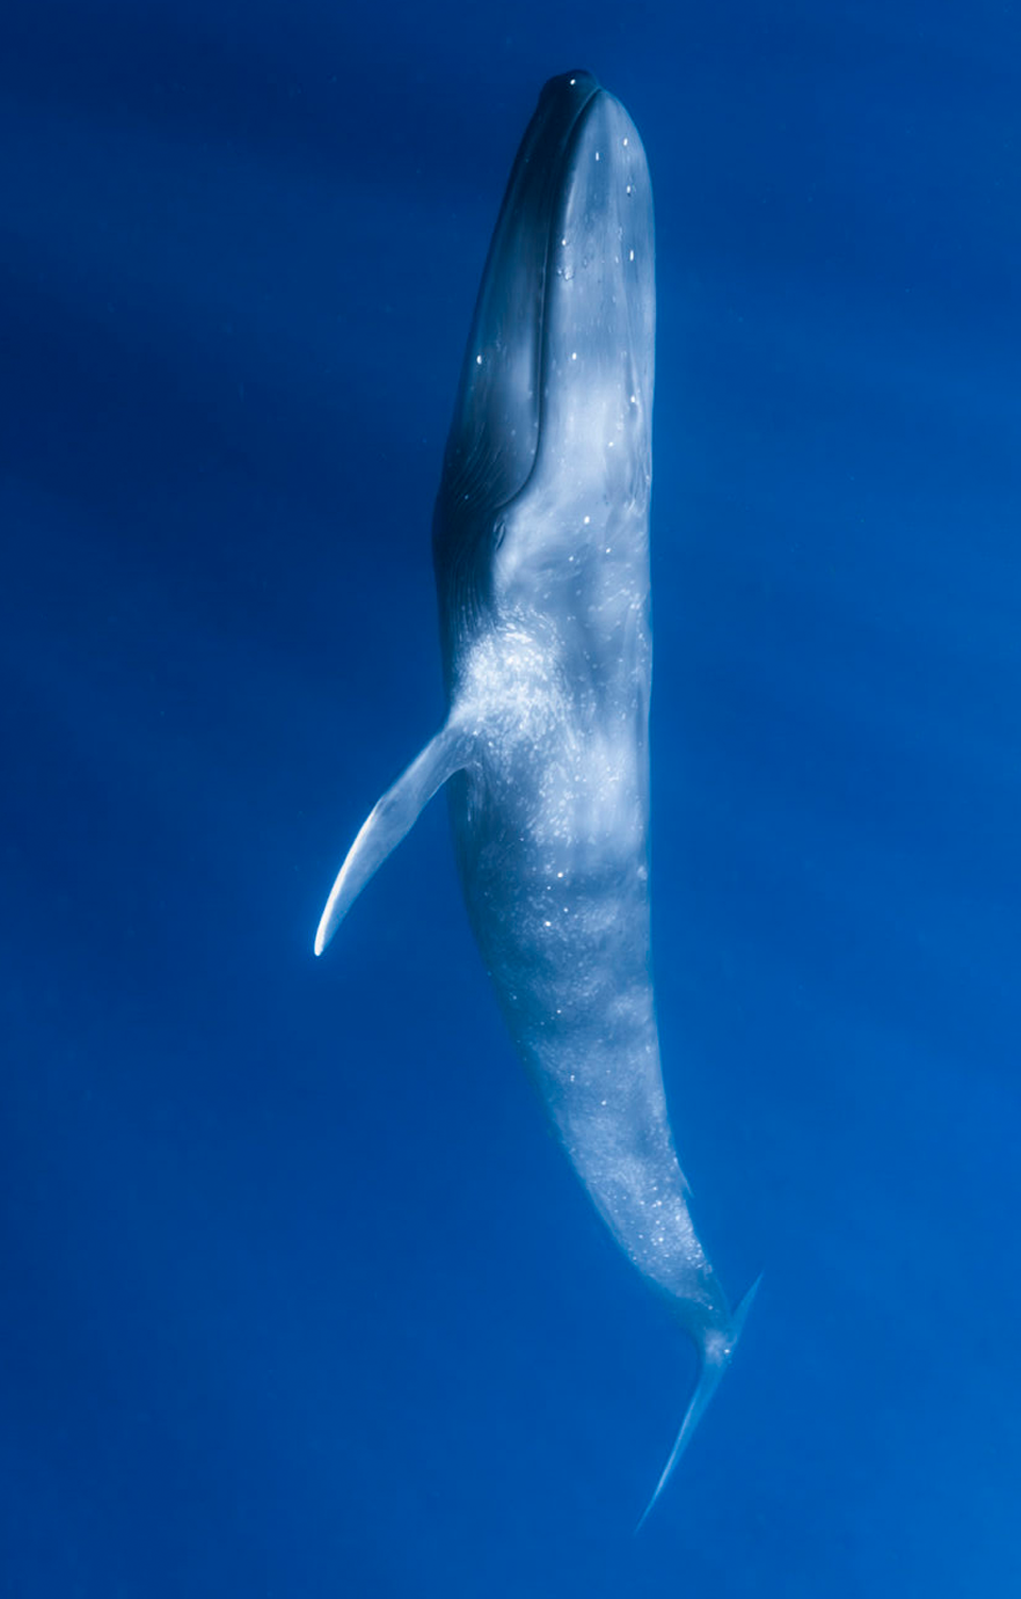
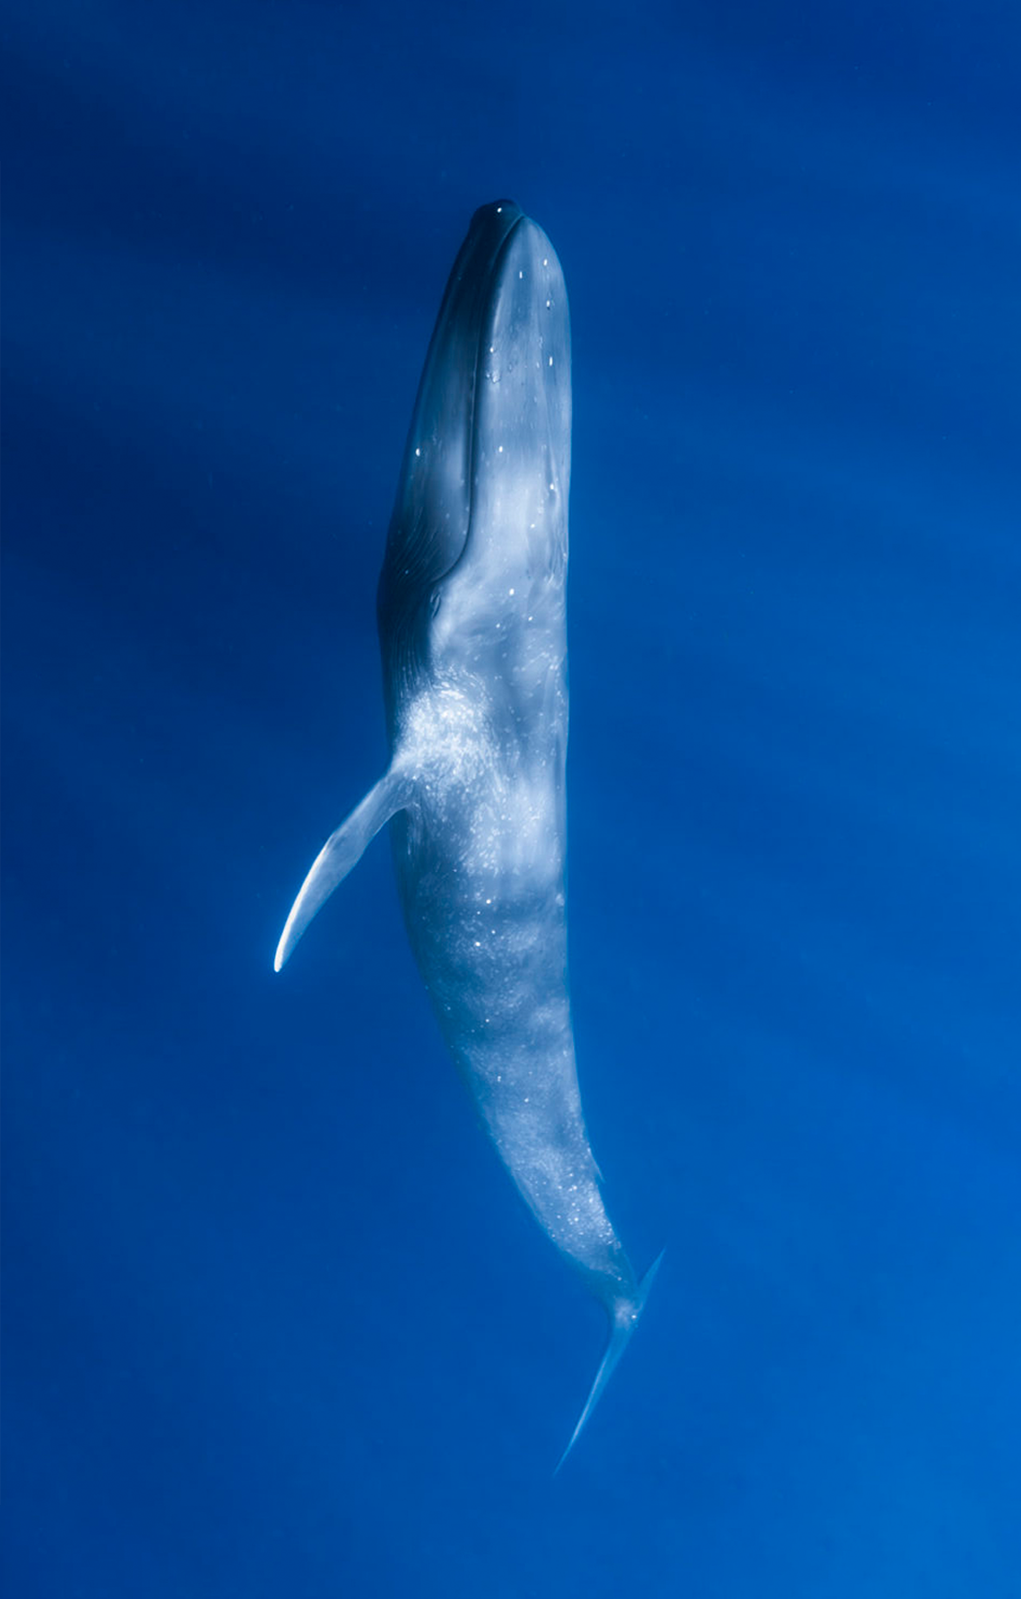
update background images

Changed region(s): [[0.2429, 0.0306, 0.7287, 0.95], [0.7287, 0.7967, 0.7591, 0.8274], [0.5465, 0.8887, 0.5769, 0.9193]]

diff --git a/index.html b/index.html
@@ -251,8 +251,8 @@
           </div>
         </div>
 
-<br/>
-        <div class="about-box">
+        <br />
+        <div class="about-box-1">
 
           <!-- Features Section -->
           <div class="row mt-5 pt-4 features-section">
@@ -325,86 +325,90 @@
     <section id="packages" class="events section">
 
       <div class="container" data-aos="fade-up" data-aos-delay="100">
+        <div class="about-box-2">
 
-        <div class="intro-text text-center mb-5" data-aos="fade-up" data-aos-delay="150">
-          <h2>Create Unforgettable Ocean Memories</h2>
-          <p>Dive into crystal-clear waters, swim with sea turtles, and snorkel alongside majestic whales. With our
-            expert guides and safe equipment, every moment becomes a story to cherish.</p>
-        </div>
-
-        <div class="event-types">
-          <div class="row">
-            <!-- Turtle Snorkeling Tours -->
-            <div class="col-lg-4 col-md-6 mb-3" data-aos="fade-up" data-aos-delay="200">
-              <div class="event-type-card">
-                <div class="icon-wrapper">
-                  <i class="bi bi-tropical-storm"></i>
-                </div>
-                <h3>Turtle Snorkeling Tours</h3>
-                <p>Swim alongside friendly sea turtles in crystal-clear waters. A safe and unforgettable experience for
-                  all ages.</p>
-                <span class="capacity">Daily Trips • 2–3 Hours</span>
-              </div>
-            </div>
-
-            <!-- Fishing Tours -->
-            <div class="col-lg-4 col-md-6 mb-3" data-aos="fade-up" data-aos-delay="250">
-              <div class="event-type-card">
-                <div class="icon-wrapper">
-                  <i class="bi bi-droplet"></i>
-                </div>
-                <h3>Fishing Tours</h3>
-                <p>Join our crew for an exciting fishing adventure. Perfect for beginners and pros who love the thrill
-                  of the catch.</p>
-                <span class="capacity">Morning & Sunset Trips</span>
-              </div>
-            </div>
-
-            <!-- Diving Tours -->
-            <div class="col-lg-4 col-md-6 mb-3" data-aos="fade-up" data-aos-delay="300">
-              <div class="event-type-card">
-                <div class="icon-wrapper">
-                  <i class="bi bi-water"></i>
-                </div>
-                <h3>Diving Tours</h3>
-                <p>Explore Sri Lanka’s stunning underwater world. Guided diving tours for beginners and certified divers
-                  alike.</p>
-                <span class="capacity">Half-Day & Full-Day</span>
-              </div>
-            </div>
+          <div class="intro-text text-center mb-5" data-aos="fade-up" data-aos-delay="150">
+            <h2>Create Unforgettable Ocean Memories</h2>
+            <p>Dive into crystal-clear waters, swim with sea turtles, and snorkel alongside majestic whales. With our
+              expert guides and safe equipment, every moment becomes a story to cherish.</p>
           </div>
-        </div>
 
-        <div class="gallery-showcase" data-aos="fade-up" data-aos-delay="150">
-          <div class="row g-3">
-            <div class="col-lg-8">
-              <div class="main-image" data-aos="zoom-in" data-aos-delay="200">
-                <video class="img-fluid shadow rounded main-img" controls autoplay muted loop>
-                  <source src="assets/img/snorkeling/Turtle.mp4" type="video/mp4">
-                  Your browser does not support the video tag.
-                </video>
-                <!-- <img src="assets/img/snorkeling/turtle_snorkeling.jpg" alt="Turtle Snorkeling" class="img-fluid"> -->
-              </div>
-            </div>
-            <div class="col-lg-4">
-              <div class="row g-3">
-                <div class="col-lg-12 col-md-6">
-                  <div class="gallery-item" data-aos="zoom-in" data-aos-delay="250">
-                    <img src="assets/img/snorkeling/Turtles_image3_in_Mirissa_Turtle_Snorkeling_&_Fishing_Club.jpg"
-                      alt="Turtle Snorkeling" class="img-fluid">
+          <div class="event-types">
+            <div class="row">
+              <!-- Turtle Snorkeling Tours -->
+              <div class="col-lg-4 col-md-6 mb-3" data-aos="fade-up" data-aos-delay="200">
+                <div class="event-type-card">
+                  <div class="icon-wrapper">
+                    <i class="bi bi-tropical-storm"></i>
                   </div>
+                  <h3>Turtle Snorkeling Tours</h3>
+                  <p>Swim alongside friendly sea turtles in crystal-clear waters. A safe and unforgettable experience
+                    for
+                    all ages.</p>
+                  <span class="capacity">Daily Trips • 2–3 Hours</span>
                 </div>
-                <div class="col-lg-12 col-md-6">
-                  <div class="gallery-item" data-aos="zoom-in" data-aos-delay="300">
-                    <img src="assets/img/snorkeling/Turtles_image4_in_Mirissa_Turtle_Snorkeling_&_Fishing_Club.jpg"
-                      alt="Turtle Snorkeling" class="img-fluid">
+              </div>
+
+              <!-- Fishing Tours -->
+              <div class="col-lg-4 col-md-6 mb-3" data-aos="fade-up" data-aos-delay="250">
+                <div class="event-type-card">
+                  <div class="icon-wrapper">
+                    <i class="bi bi-droplet"></i>
                   </div>
+                  <h3>Fishing Tours</h3>
+                  <p>Join our crew for an exciting fishing adventure. Perfect for beginners and pros who love the thrill
+                    of the catch.</p>
+                  <span class="capacity">Morning & Sunset Trips</span>
+                </div>
+              </div>
+
+              <!-- Diving Tours -->
+              <div class="col-lg-4 col-md-6 mb-3" data-aos="fade-up" data-aos-delay="300">
+                <div class="event-type-card">
+                  <div class="icon-wrapper">
+                    <i class="bi bi-water"></i>
+                  </div>
+                  <h3>Diving Tours</h3>
+                  <p>Explore Sri Lanka’s stunning underwater world. Guided diving tours for beginners and certified
+                    divers
+                    alike.</p>
+                  <span class="capacity">Half-Day & Full-Day</span>
                 </div>
               </div>
             </div>
           </div>
-        </div>
 
+          <div class="gallery-showcase" data-aos="fade-up" data-aos-delay="150">
+            <div class="row g-3">
+              <div class="col-lg-8">
+                <div class="main-image" data-aos="zoom-in" data-aos-delay="200">
+                  <video class="img-fluid shadow rounded main-img" controls autoplay muted loop>
+                    <source src="assets/img/snorkeling/Turtle.mp4" type="video/mp4">
+                    Your browser does not support the video tag.
+                  </video>
+                  <!-- <img src="assets/img/snorkeling/turtle_snorkeling.jpg" alt="Turtle Snorkeling" class="img-fluid"> -->
+                </div>
+              </div>
+              <div class="col-lg-4">
+                <div class="row g-3">
+                  <div class="col-lg-12 col-md-6">
+                    <div class="gallery-item" data-aos="zoom-in" data-aos-delay="250">
+                      <img src="assets/img/snorkeling/Turtles_image3_in_Mirissa_Turtle_Snorkeling_&_Fishing_Club.jpg"
+                        alt="Turtle Snorkeling" class="img-fluid">
+                    </div>
+                  </div>
+                  <div class="col-lg-12 col-md-6">
+                    <div class="gallery-item" data-aos="zoom-in" data-aos-delay="300">
+                      <img src="assets/img/snorkeling/Turtles_image4_in_Mirissa_Turtle_Snorkeling_&_Fishing_Club.jpg"
+                        alt="Turtle Snorkeling" class="img-fluid">
+                    </div>
+                  </div>
+                </div>
+              </div>
+            </div>
+          </div>
+        </div>
+<br/>
         <div class="event-cta" data-aos="fade-up" data-aos-delay="200">
           <div class="row align-items-center">
             <div class="col-lg-8">

diff --git a/assets/css/main.css b/assets/css/main.css
@@ -1037,7 +1037,7 @@ section,
 }
 
 
-
+/* About box */
 .about-box {
   position: relative;
   border-radius: 20px;
@@ -1086,6 +1086,109 @@ section,
     background-attachment: fixed;
   }
 }
+
+/* About box - 1 */
+.about-box-1 {
+  position: relative;
+  border-radius: 20px;
+  padding: 70px 60px;
+  color: #fff;
+  overflow: hidden;
+}
+
+.about-box-1::before {
+  content: "";
+  position: absolute;
+  inset: 0;
+
+  background: linear-gradient(
+      rgba(13, 33, 78, 0.414),
+      rgba(10, 25, 60, 0.85)
+    ),
+    url("../img/bg/Mirissa-Whales-Watching-Tours-whales-2.jpg");
+
+  background-size: cover;
+  background-position: center;
+  background-attachment: fixed;
+
+  z-index: 0;
+}
+
+
+.about-box-1 > * {
+  position: relative;
+  z-index: 1;
+}
+
+/* Mobile devices */
+@media (max-width: 768px) {
+  .about-box-1::before {
+    background: linear-gradient(
+        rgba(13, 33, 78, 0.414),
+        rgba(10, 25, 60, 0.85)
+      ),
+      url("../img/bg/Mirissa-Whales-Watching-Tours-whale-M11.jpeg.png"); /* 👉 your mobile image */
+
+    background-size: cover;
+    background-position: center;
+
+    /* IMPORTANT: disable fixed on mobile */
+    background-attachment: fixed;
+  }
+}
+
+
+/* About box - 2 */
+.about-box-2 {
+  position: relative;
+  border-radius: 20px;
+  padding: 70px 60px;
+  color: #fff;
+  overflow: hidden;
+}
+
+.about-box-2::before {
+  content: "";
+  position: absolute;
+  inset: 0;
+
+  background: linear-gradient(
+      rgba(13, 33, 78, 0.414),
+      rgba(10, 25, 60, 0.85)
+    ),
+    url("../img/bg/Mirissa-Whales-Watching-Tours-whales-3.jpg");
+
+  background-size: cover;
+  background-position: center;
+  background-attachment: fixed;
+
+  z-index: 0;
+}
+
+
+.about-box-2 > * {
+  position: relative;
+  z-index: 1;
+}
+
+/* Mobile devices */
+@media (max-width: 768px) {
+  .about-box-2::before {
+    background: linear-gradient(
+        rgba(13, 33, 78, 0.414),
+        rgba(10, 25, 60, 0.85)
+      ),
+      url("../img/bg/Mirissa-Whales-Watching-Tours-whale-M3.jpeg.png"); /* 👉 your mobile image */
+
+    background-size: cover;
+    background-position: center;
+
+    /* IMPORTANT: disable fixed on mobile */
+    background-attachment: fixed;
+  }
+}
+
+
 
 
 .about-video {